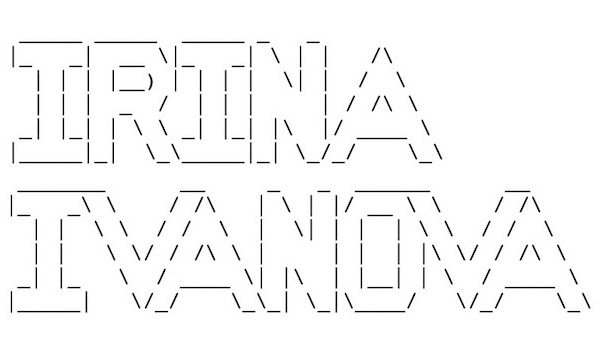
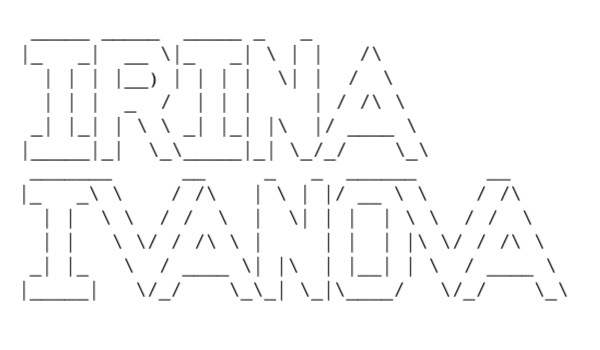
#37 Try PNG image for FB preview

diff --git a/index.html b/index.html
@@ -8,7 +8,7 @@
 <meta property="og:title" content="Profile Page of Irina Ivanova">
 <meta property="og:url" content="https://irina-ivanova.eu">
 <meta property="og:description" content="Profile page of Irina Ivanova, experienced software tester and web enthusiast.">
-<meta property="og:image" content="https://irina-ivanova.eu/pic/vertical.jpeg">
+<meta property="og:image" content="https://irina-ivanova.eu/pic/vertical.png">
 <meta property="og:locale" content="en_US">
 <meta property="og:type" content="profile">
 <meta property="profile:first_name" content="Irina">
